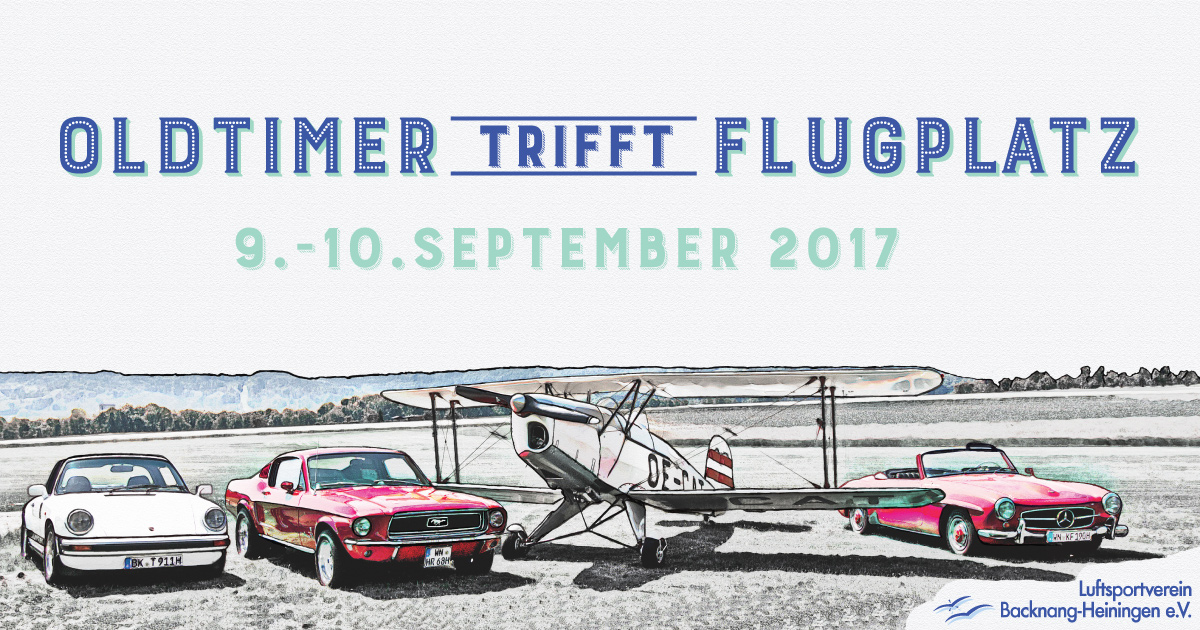
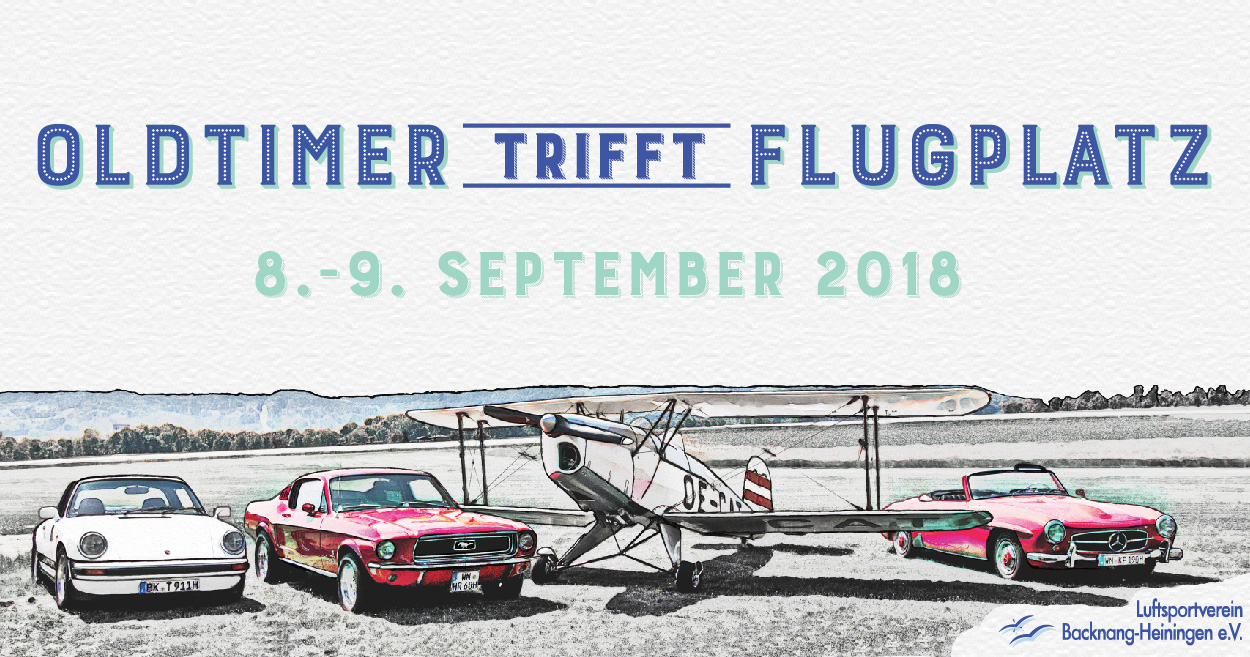
[TASK] Adjust share image to 2018
Resolves #1

Changed region(s): [[0.0, 0.573, 1.0, 1.0], [0.0308, 0.181, 0.9867, 0.3016], [0.185, 0.3619, 0.7708, 0.4524]]

diff --git a/docs/index.html b/docs/index.html
@@ -15,11 +15,10 @@
 <meta property="og:title" content="Oldtimer trifft Flugplatz | Oldtimertreffen BK-Heiningen 2018" />
 <meta itemprop="description" property="og:description" content="Oldtimerfreunde & Familie treffen vom 8.-9. September 2018 auf Oldtimer aller Art. Vorbeikommen, Flugplatz kennen lernen und Spaß haben in Backnang-Heiningen!" />
 
-<!--
 <meta itemprop="image" property="og:image" content="https://www.oldtimer-trifft-flugplatz.de/img/oldtimer-trifft-flugplatz-share-it.jpg" />
-<meta property="og:image:width" content="1200" />
-<meta property="og:image:height" content="630" />
--->
+<meta property="og:image:width" content="1250" />
+<meta property="og:image:height" content="657" />
+
 <meta property="og:locale" content="de_DE" />
 <meta property="fb:app_id" content="252185698615512" />
 
